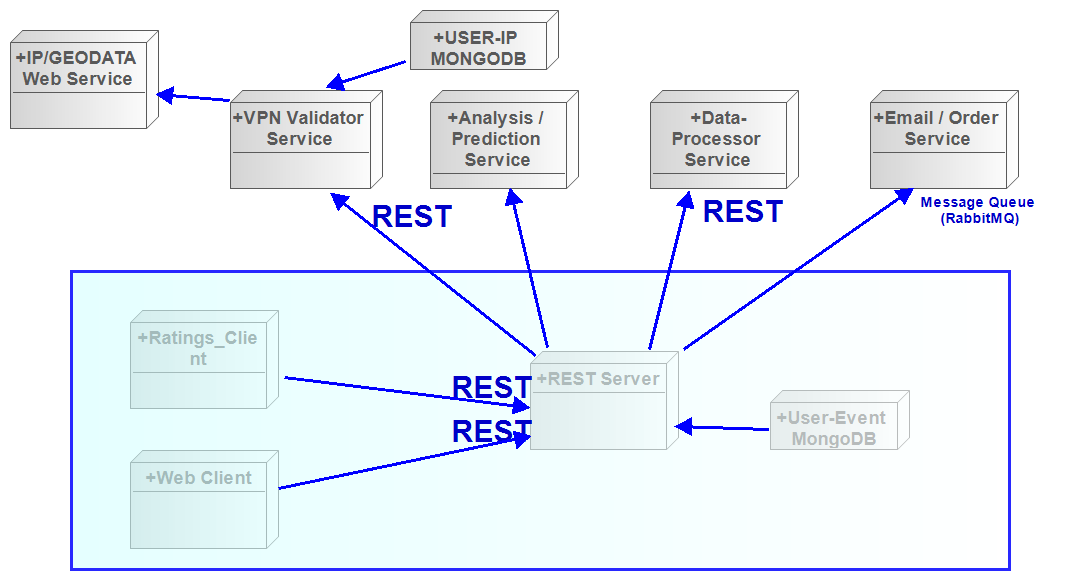
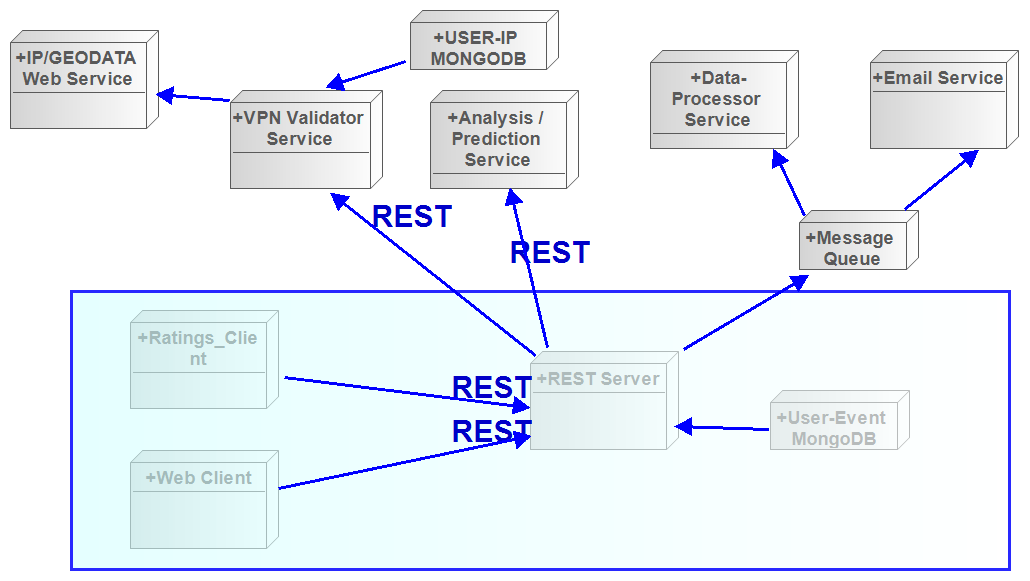
Change EventEmail to Email service

diff --git a/README.md b/README.md
@@ -56,7 +56,7 @@ A micro-service which takes the event, user and rating data in a CSV document an
 
 A micro-service used to convert database data into a csv which can subsequently be analysed by the Event Analyser Service.
 
-#### [Email / Order Service](./OrderMail_Service/)
+#### [Email Service](./OrderMail_Service/)
 
 An email and ordering micro-service used to send orders or emails to those required. This micro-service gets its information from a messaging queue system and only operates during work-hours. 
 
